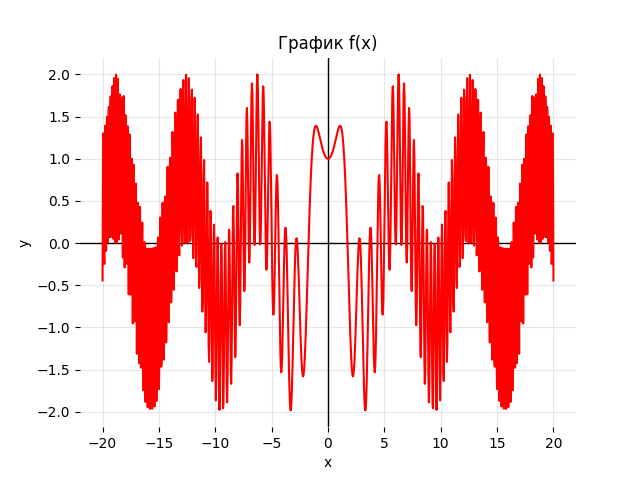
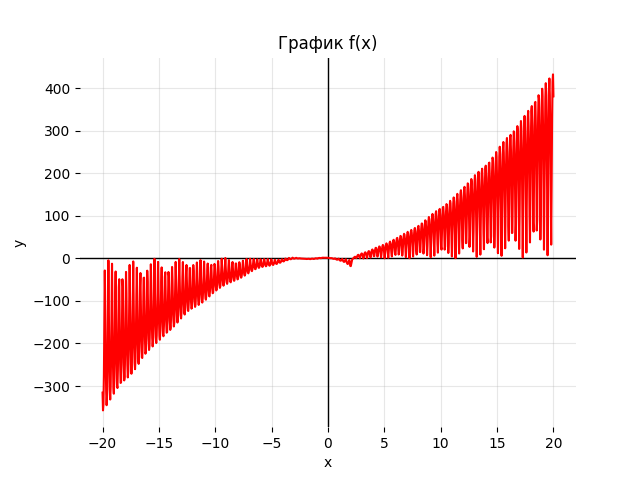
optimitions
оптимизация + ограничение на отрезок [a;b] в макс/мин,

diff --git a/bot.py b/bot.py
@@ -206,6 +206,12 @@ def calculate(message, func, a):
         bot.delete_message(message.chat.id, message.message_id)
         return
 
+    MAX = 1e4
+    if b - a > MAX:
+        bot.send_message(message.chat.id, f"❌ <b>Слишком большой отрезок!</b> Максимальная длина: {MAX} \n Введите конец отрезка <i>b = </i>", parse_mode = 'HTML')
+        bot.register_next_step_handler(message, calculate, func, a)
+        return
+
     # сохранение данных после всех проверок!
     user_data[message.chat.id] = {'func': func, 'a': a, 'b': b}
     graph_module.func = func
@@ -224,7 +230,6 @@ def handle_max(message):
 
     graph_module.func = data['func']
     result_text = dichotomy_max(data['a'], data['b'])
-    c = graph_module.c
     # Смотрит сохраненный файл, если графика нет, то и изображения тоже, значит и смотреть нечего, тогда просто выводим рез. Дихотомии
     PATH = build_graph(message.from_user.id, data['func'], data['a'], data['b'], GRAPHS_DIR)
 
@@ -252,7 +257,6 @@ def handle_min(message):
 
     graph_module.func = data['func']
     result_text = dichotomy_min(data['a'], data['b'])
-    c = graph_module.c
     PATH = build_graph(message.from_user.id, data['func'], data['a'], data['b'], GRAPHS_DIR)
 
     # Лог для построения графика
@@ -270,9 +274,9 @@ def handle_min(message):
 
 #===ПОСТРОЕНИЕ ГРАФИКА==================================================================================================
 @bot.message_handler(func=lambda m: m.text == "📊 Построить график")
-def ask_simple_function(messege):
-    bot.send_message(messege.chat.id, "<i><b>[ƒ]</b></i> Введите функцию <i>f(x) = </i>", parse_mode = 'HTML')
-    bot.register_next_step_handler(messege, get_simple_function)
+def ask_simple_function(message):
+    bot.send_message(message.chat.id, "<i><b>[ƒ]</b></i> Введите функцию <i>f(x) = </i>", parse_mode = 'HTML')
+    bot.register_next_step_handler(message, get_simple_function)
 
 def get_simple_function(message):
     if is_cancelled(message):

diff --git a/src/graph/graph.py b/src/graph/graph.py
@@ -120,8 +120,6 @@ def dichotomy_max(a, b):
         # пропускаем nan, inf и значения на краях подотрезка (асимптоты)
         if np.isnan(local_val) or np.isinf(local_val):
             continue
-        if abs(local_c - seg_a) < eps or abs(local_c - seg_b) < eps:
-            continue
 
         if local_val > best_val:
             best_val = local_val
@@ -177,8 +175,6 @@ def dichotomy_min(a, b):
 
         # пропускаем nan, inf и значения на краях подотрезка (асимптоты)
         if np.isnan(local_val) or np.isinf(local_val):
-            continue
-        if abs(local_c - seg_a) < eps or abs(local_c - seg_b) < eps:
             continue
 
         if local_val < best_val:
@@ -245,6 +241,7 @@ def graph(i, func, a, b, save_dir='./imgs'):
     ax.set_title('График f(x)')
     ax.set_xlabel('x')
     ax.set_ylabel('y')
+    ax.set_xlim(a, b)
 
     # в случае если папки не будет, эта штука создаст папку сама с назв. imgs
     os.makedirs(save_dir, exist_ok=True)
